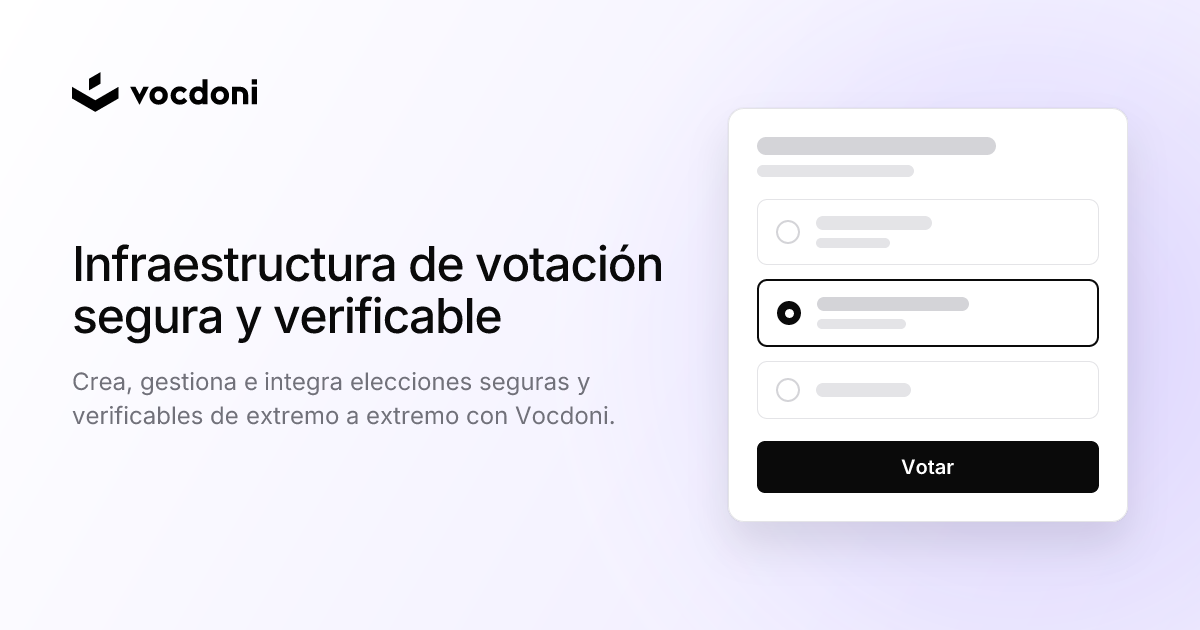
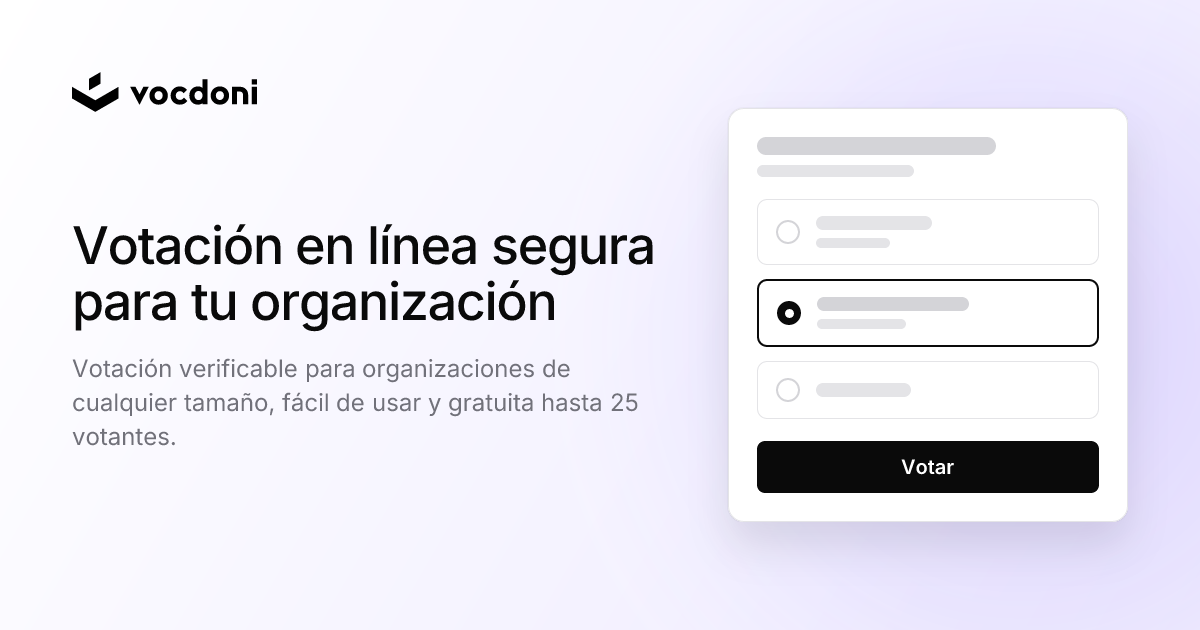
feat(seo): user-centric copy for the open graph card
The card now reads from its own og.headline / og.tagline keys instead of
the SEO title and description: "Secure online voting for your
organization" over "Verifiable voting for organizations of any size,
easy to use and free for up to 25 voters", translated for every locale
following src/i18n/contexts. The headline doubles as og:image:alt; og.*
is listed in the extractor's preservePatterns because only the generator
reads the tagline.

Changed region(s): [[0.0617, 0.3619, 0.555, 0.5429], [0.0617, 0.573, 0.5242, 0.7238]]

diff --git a/src/pages/shared/DefaultPageHead.tsx b/src/pages/shared/DefaultPageHead.tsx
@@ -1,7 +1,12 @@
 import { usePageContext } from 'vike-react/usePageContext'
 import i18n from '~i18n'
 import { getDefaultPageDescription, getDefaultPageTitle, resolveRouteLanguage } from './defaultHeadMeta'
-import { getOpenGraphImagePath, OPEN_GRAPH_IMAGE_HEIGHT, OPEN_GRAPH_IMAGE_WIDTH } from './openGraphImage'
+import {
+  getOpenGraphImageAlt,
+  getOpenGraphImagePath,
+  OPEN_GRAPH_IMAGE_HEIGHT,
+  OPEN_GRAPH_IMAGE_WIDTH,
+} from './openGraphImage'
 import { resolvePublicOrigin } from './publicOrigin'
 
 // Default social tags for pages without data-driven metadata (the SPA
@@ -12,7 +17,8 @@ const DefaultPageHead = () => {
   const pageContext = usePageContext()
   const title = getDefaultPageTitle(pageContext)
   const description = getDefaultPageDescription(pageContext)
-  const imagePath = getOpenGraphImagePath(resolveRouteLanguage(pageContext) ?? i18n.language)
+  const language = resolveRouteLanguage(pageContext) ?? i18n.language
+  const imagePath = getOpenGraphImagePath(language)
   const origin = resolvePublicOrigin(pageContext)
   const image = origin ? new URL(imagePath, origin).toString() : imagePath
 
@@ -23,7 +29,7 @@ const DefaultPageHead = () => {
       <meta property='og:image' content={image} />
       <meta property='og:image:width' content={String(OPEN_GRAPH_IMAGE_WIDTH)} />
       <meta property='og:image:height' content={String(OPEN_GRAPH_IMAGE_HEIGHT)} />
-      <meta property='og:image:alt' content={title} />
+      <meta property='og:image:alt' content={getOpenGraphImageAlt(language)} />
       <meta name='twitter:card' content='summary_large_image' />
       <meta name='twitter:site' content='@vocdoni' />
       <meta name='twitter:title' content={title} />

diff --git a/src/pages/shared/DefaultPageHead.test.tsx b/src/pages/shared/DefaultPageHead.test.tsx
@@ -1,5 +1,6 @@
 import { renderToStaticMarkup } from 'react-dom/server'
 import { describe, expect, it, vi } from 'vitest'
+import i18n from '~i18n'
 
 const pageContext = vi.hoisted(() => ({ current: {} as any }))
 
@@ -23,7 +24,7 @@ describe('DefaultPageHead', () => {
     expect(html).toContain('name="twitter:image" content="https://app.example.org/assets/og/ca.png"')
     expect(html).toContain('property="og:image:width" content="1200"')
     expect(html).toContain('property="og:image:height" content="630"')
-    expect(html).toContain('property="og:image:alt"')
+    expect(html).toContain(`property="og:image:alt" content="${i18n.t('og.headline', { lng: 'ca' })}"`)
     expect(html).toContain('name="twitter:card" content="summary_large_image"')
     expect(html).toContain('property="og:type" content="website"')
     expect(html).toContain('property="og:site_name" content="Vocdoni"')

diff --git a/src/pages/shared/openGraphImage.ts b/src/pages/shared/openGraphImage.ts
@@ -1,3 +1,4 @@
+import i18n from '~i18n'
 import { baseLanguages } from '~i18n/languages'
 
 // Generated by `pnpm og:generate` (scripts/og); one card per locale, English for anything else.
@@ -9,3 +10,9 @@ export const getOpenGraphImagePath = (language?: string) => {
   const lang = language && language in baseLanguages ? language : fallbackLanguage
   return `/assets/og/${lang}.png`
 }
+
+// The headline printed on the card, which is what the image shows a reader. The source (en) copy
+// lives in src/i18n/locales/en/common.json, next to `og.tagline`; the defaultValue is only a runtime
+// fallback kept in sync with it, as in defaultHeadMeta.ts.
+export const getOpenGraphImageAlt = (language?: string) =>
+  i18n.t('og.headline', { lng: language, defaultValue: 'Secure online voting for your organization' })

diff --git a/i18next.config.ts b/i18next.config.ts
@@ -17,6 +17,10 @@ export default defineConfig({
     functions: ['t', '*.t'],
     transComponents: ['Trans'],
     ignoreNamespaces: ['react-components'],
+    // The Open Graph card copy (`og.*`) is read by scripts/og/generate.mjs, outside the extractor's
+    // input; only `og.headline` also appears in src (as og:image:alt), so keep the rest from being
+    // pruned as unused.
+    preservePatterns: ['og.*'],
   },
   types: {
     input: ['src/i18n/locales/{{language}}/{{namespace}}.json'],

diff --git a/AGENTS.md b/AGENTS.md
@@ -53,7 +53,7 @@
 - `pnpm test:stress`: run the load-test harness self-tests in `stress/` (excluded from `pnpm test`; run after changing that directory).
 - `pnpm test:e2e:stack`: boot the disposable backend and run the Playwright end-to-end suite (needs docker).
 - `pnpm translations`: extract i18n keys from source code and update locale files.
-- `pnpm og:generate`: regenerate the localized Open Graph cards in `public/assets/og/` (see `scripts/og/`). Run it after changing `head.title`, `head.description` or the react-components `vote.button` label in any locale, and review the PNGs by eye.
+- `pnpm og:generate`: regenerate the localized Open Graph cards in `public/assets/og/` (see `scripts/og/`). Run it after changing `og.headline`, `og.tagline` or the react-components `vote.button` label in any locale, and review the PNGs by eye.
 - `pnpm chakra:typegen`: regenerate Chakra typings after theme/system changes.
 
 ## Coding Style & Naming Conventions
@@ -77,7 +77,7 @@
 - After adding or changing translation keys, always run `pnpm translations`.
 - Review generated locale diffs and translate new keys for every supported locale: each directory under `src/i18n/locales/` (`ca`, `de`, `el`, `es`, `eu`, `fr`, `it`, `pt`, `pt-br`). `pnpm translations` adds them as empty strings, and with `returnEmptyString: false` an empty value falls back to English.
 - Avoid leaving partial localization changes unreviewed.
-- The social preview images are rendered from locale copy (`head.title`, `head.description`, react-components `vote.button`) and committed under `public/assets/og/`; when any of those strings change, run `pnpm og:generate` and commit the updated PNGs with the translation.
+- The social preview images are rendered from locale copy (`og.headline`, `og.tagline`, react-components `vote.button`) and committed under `public/assets/og/`; when any of those strings change, run `pnpm og:generate` and commit the updated PNGs with the translation. `og.tagline` is only read by the generator, so `i18next.config.ts` lists `og.*` in `preservePatterns` to keep extraction from pruning it.
 - Per-locale translation guidance lives in `src/i18n/contexts/` (one file per locale, e.g. `es.md`, `ca.md`; `en` is the source language and has none). These files are prompts that capture tone, register, glossary terms, and non-translatable terms (placeholders, component tags, brand/product names) for each language. Read the whole file, glossary included, before translating or reviewing strings for a locale, follow it, and keep it updated whenever its conventions change.
 - `react-components.json` overrides the strings `@vocdoni/react-components` ships, which are English only. `pnpm translations` does not manage it, so when the package adds keys (e.g. after an upgrade), add their translations by hand to every non-English locale. English falls back to the package's own text and only needs a key to change its wording.
 - `src/i18n/locales/index.test.ts` fails when a locale has an empty, whitespace-only or null value, or lacks a key or CLDR plural form (e.g. `_many`) that English has. For `react-components`, "English" is the keys the installed package ships plus the app's own. It does not compare placeholders, so check that `{{ … }}` variables and component tags match English yourself.
